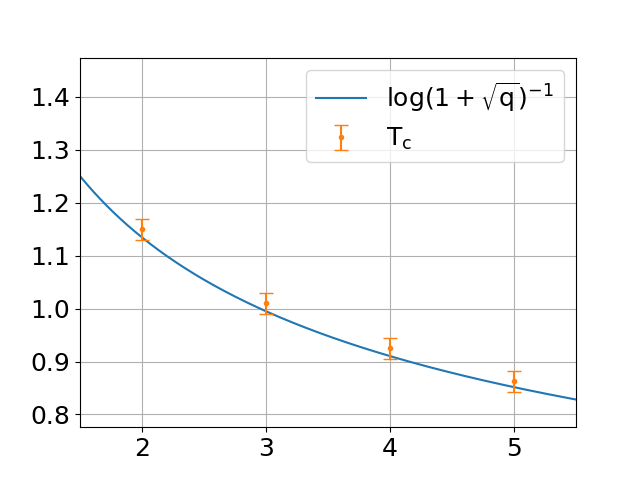
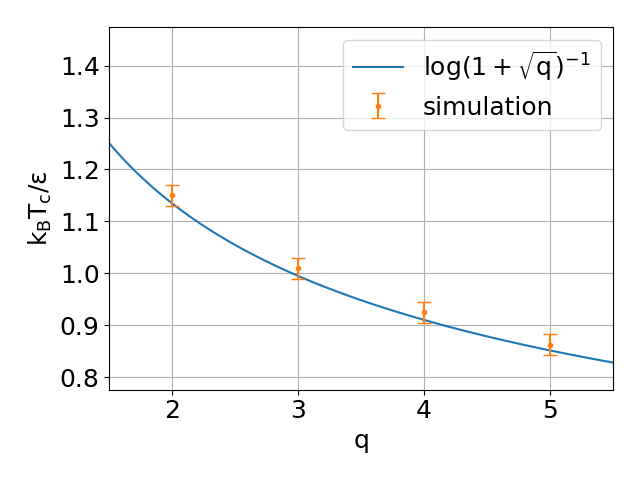
updated readme

diff --git a/standard/Tc_over_q.py b/standard/Tc_over_q.py
@@ -14,8 +14,10 @@ qspace = np.linspace(q[0]-1,q[-1]+1,1000)
 Tcspace = [1/(np.log(1+np.sqrt(qq))) for qq in qspace]
 
 plt.plot(qspace,Tcspace,label="$\mathrm{log}(1+\sqrt{\mathrm{q}})^{-1}$")
-plt.errorbar(q,Tc,yerr=Tc_error,capsize = 5,fmt = '.',label=r"$\mathrm{T_c}$")
+plt.errorbar(q,Tc,yerr=Tc_error,capsize = 5,fmt = '.',label=r"simulation")
 plt.xlim(q[0]-0.5,q[-1]+0.5)
+plt.xlabel("q")
+plt.ylabel(r"$\mathrm{k_BT_c/\epsilon}$")
 plt.grid()
 plt.legend()
 plt.show()

diff --git a/standard/README.md b/standard/README.md
@@ -1,2 +1,4 @@
 # Potts-Model
 C code (maybe also python) to simulate Potts Model
+
+The files of interest are most likely just the simulation files, which are only the .c and .h files. C was used to simulate, whily python was used to plot.
